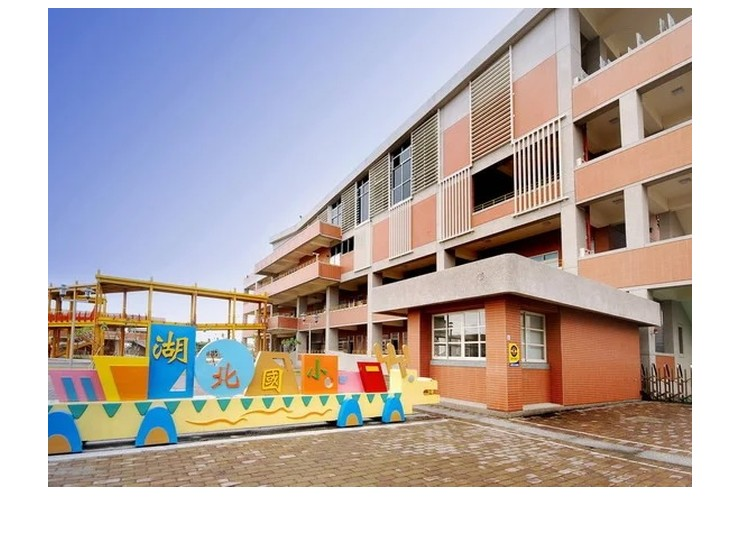
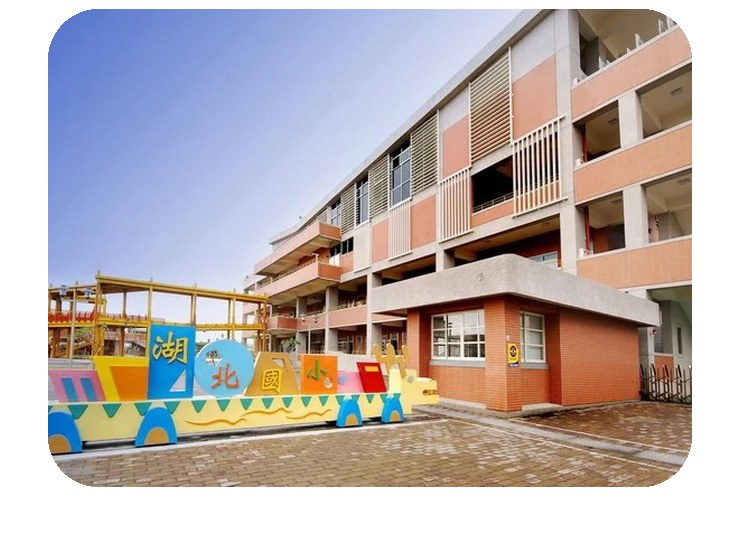
Schools cards: rebuild jianxin/beidou/hubei to full polaroid spec
Audited all 125 cards under assets/images/schools/. 123 follow
the hub convention — 740x555 outer canvas, 644x478 inner photo
pasted at (48, 9), rounded corners with radius 50. Only two
were edge-to-edge (jianxin from this session, beidou from the
original 99-photo batch), and the earlier Hubei fix used square
white margins instead of the r=50 rounded mask.

All three rebuilt from the proper source using the sample code
from feedback_school_card_photo_spec.md — same pillow workflow,
correct mask radius, EXIF transposed, JPEG q=88. Cachebuster
bumped via build.py.

diff --git a/schools/index.html b/schools/index.html
@@ -637,7 +637,7 @@
   </header>
   <div class="hub-school-grid">
     <a class="hub-school-card" href="https://changhua-bilingual.org/schools/hubei/" target="_blank" rel="noopener" data-search="Hubei 湖北國小 Xihu Township 溪湖鎮 hubei">
-  <img class="photo" src="/assets/images/schools/hubei.jpg?v=1779416995" alt="Hubei" loading="lazy">
+  <img class="photo" src="/assets/images/schools/hubei.jpg?v=1779417276" alt="Hubei" loading="lazy">
   <div class="body">
     <p class="name">Hubei</p>
     <p class="zh">湖北國小</p>
@@ -792,7 +792,7 @@
     <span class="badge jh">JHS</span>
   </div>
 </a><a class="hub-school-card" href="https://beidou.twrses.org" target="_blank" rel="noopener" data-search="Beidou 北斗國小 Beidou Township 北斗鎮 beidou">
-  <img class="photo" src="/assets/images/schools/beidou.jpg?v=1778978058" alt="Beidou" loading="lazy">
+  <img class="photo" src="/assets/images/schools/beidou.jpg?v=1779417276" alt="Beidou" loading="lazy">
   <div class="body">
     <p class="name">Beidou</p>
     <p class="zh">北斗國小</p>
@@ -1100,7 +1100,7 @@
     <span class="badge ">ES</span>
   </div>
 </a><a class="hub-school-card" href="https://changhua-bilingual.org/schools/jianxin/" target="_blank" rel="noopener" data-search="Jianxin 建新國小 Fangyuan Township 芳苑鄉 jianxin">
-  <img class="photo" src="/assets/images/schools/jianxin.jpg?v=1779416562" alt="Jianxin" loading="lazy">
+  <img class="photo" src="/assets/images/schools/jianxin.jpg?v=1779417276" alt="Jianxin" loading="lazy">
   <div class="body">
     <p class="name">Jianxin</p>
     <p class="zh">建新國小</p>